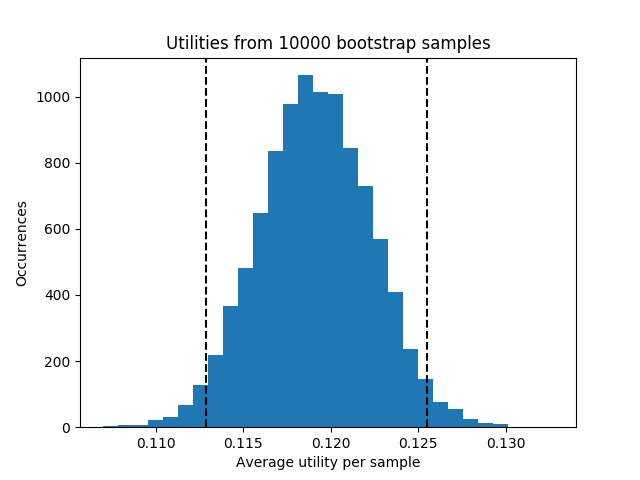
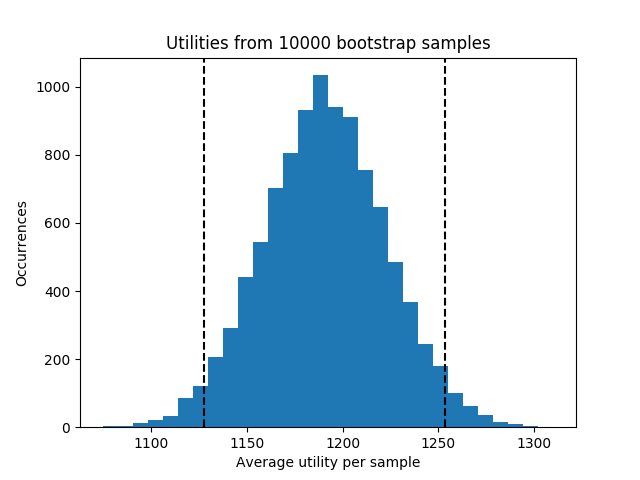
fixed

diff --git a/src/project-2/improved_recommender.py b/src/project-2/improved_recommender.py
@@ -19,13 +19,13 @@ class ImprovedRecommender(RandomRecommender):
 
     def estimate_utility(self, data, actions, outcome, policy=None):
         if not policy:
-            return np.sum(self.reward(actions, outcome))/len(actions)
+            return np.sum(self.reward(actions, outcome))
         else:
             pi_hat = actions.value_counts()/actions.size
             recommendations = np.zeros(actions.size)
             for i in range(actions.size):
                 recommendations[i] = policy.get_best_action(data.iloc[i], [self.predict_proba(data.iloc[i], a) for a in range(self.n_actions)])
-            return np.sum(self.reward(recommendations, outcome) * recommendations / actions.map(pi_hat))/len(actions)
+            return np.sum(self.reward(recommendations, outcome) * recommendations / actions.map(pi_hat))
 
     def predict_proba(self, data, treatment):
         return self.models[treatment].predict_proba(pandas.DataFrame(data).transpose())
